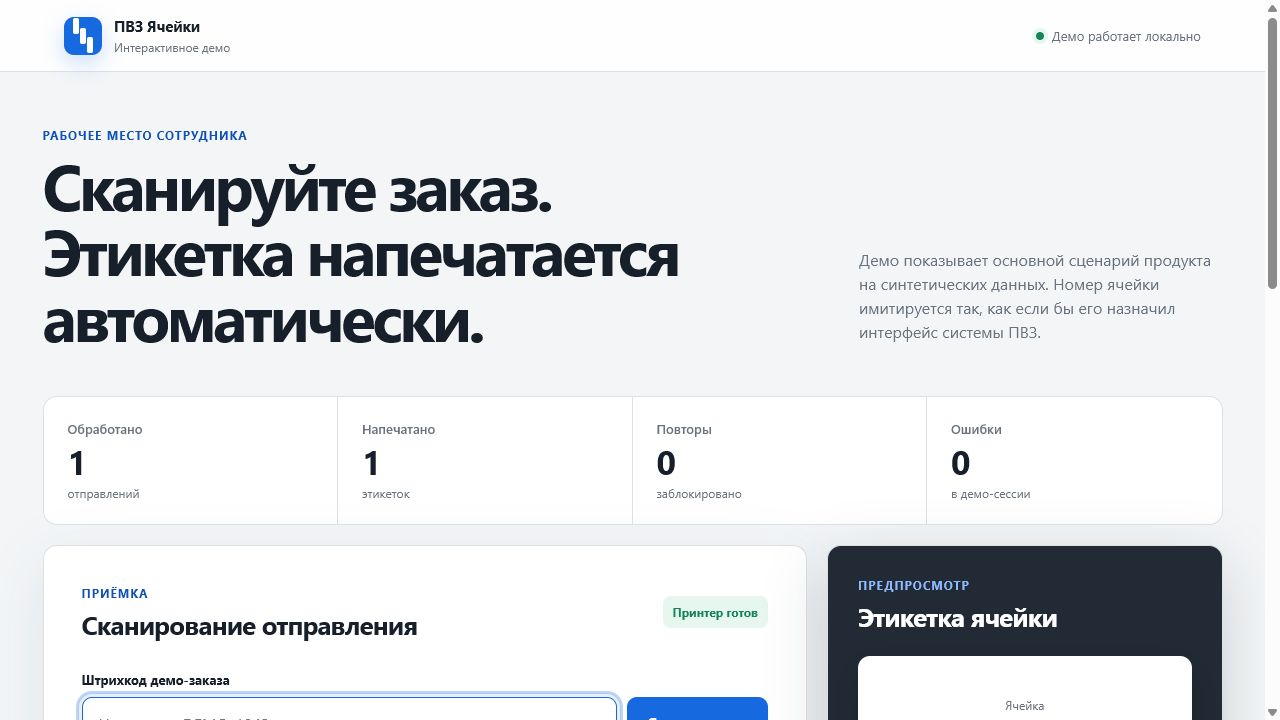
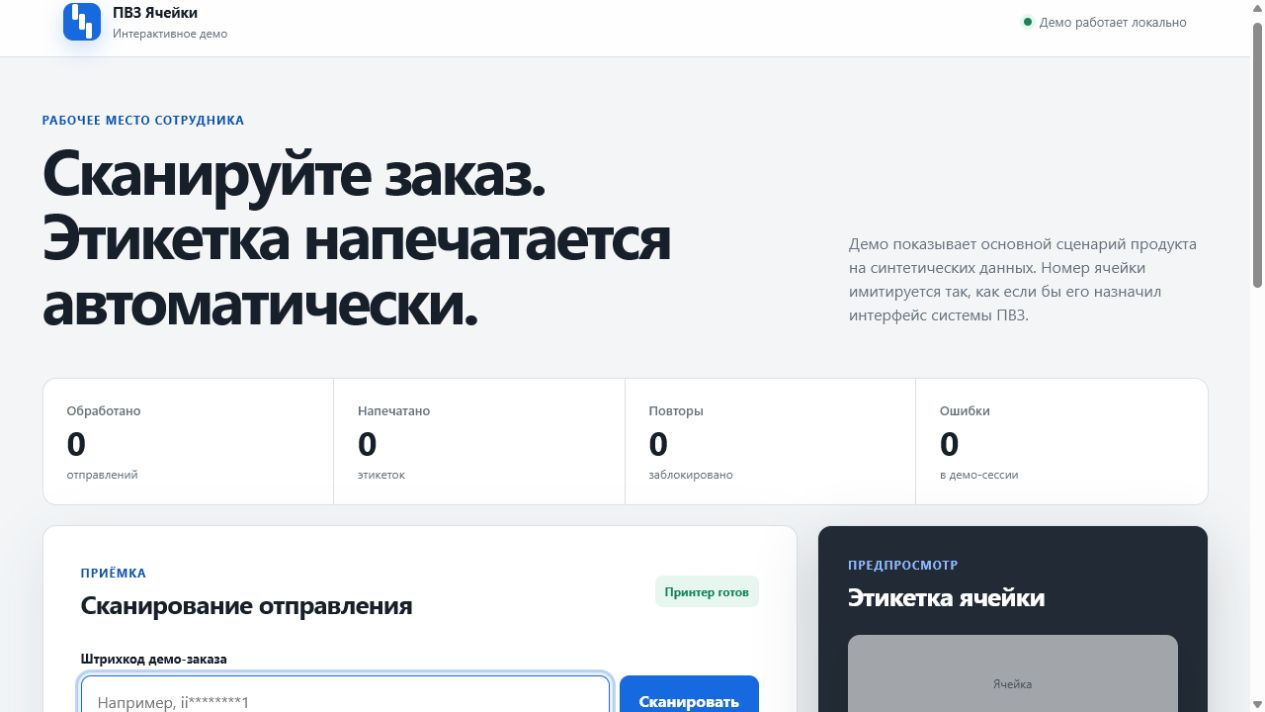
Update demo barcode examples

diff --git a/index.html b/index.html
@@ -69,7 +69,7 @@
         <form id="scanForm" class="scan-form">
           <label for="orderInput">Штрихкод демо-заказа</label>
           <div class="scan-control">
-            <input id="orderInput" name="order" inputmode="text" autocomplete="off" placeholder="Например, DEMO-1042" aria-describedby="scanHint" required>
+            <input id="orderInput" name="order" inputmode="text" autocomplete="off" placeholder="Например, ii********1" aria-describedby="scanHint" required>
             <button id="scanButton" class="primary-button" type="submit">Сканировать</button>
           </div>
           <p id="scanHint" class="field-hint">Введите любой код или выберите пример ниже. Реальные номера заказов не используются.</p>
@@ -77,9 +77,9 @@
 
         <div class="sample-orders" aria-label="Примеры демо-заказов">
           <span>Быстрый пример:</span>
-          <button type="button" data-sample="DEMO-1042">DEMO-1042</button>
-          <button type="button" data-sample="DEMO-2087">DEMO-2087</button>
-          <button type="button" data-sample="DEMO-3155">DEMO-3155</button>
+          <button type="button" data-sample="ii********1">ii********1</button>
+          <button type="button" data-sample="ii********2">ii********2</button>
+          <button type="button" data-sample="ii********3">ii********3</button>
         </div>
 
         <div id="processState" class="process-state empty-state" aria-live="polite">

diff --git a/app.js b/app.js
@@ -40,7 +40,7 @@ function wait(duration) {
 }
 
 function sanitizeOrder(value) {
-  return value.trim().toUpperCase().replace(/[^A-ZА-Я0-9-]/g, "").slice(0, 32);
+  return value.trim().replace(/[^A-Za-zА-Яа-яЁё0-9*-]/g, "").slice(0, 32);
 }
 
 function selectCell(order) {

diff --git a/README.md b/README.md
@@ -18,7 +18,7 @@
 
 ## Что можно попробовать
 
-1. Ввести любой синтетический код, например `DEMO-1042`.
+1. Ввести любой синтетический код, например `ii********1`.
 2. Запустить сканирование и увидеть распознанную ячейку.
 3. Повторить тот же код и проверить защиту от повторной печати.
 4. Выключить демо-принтер и посмотреть обработку ошибки.
